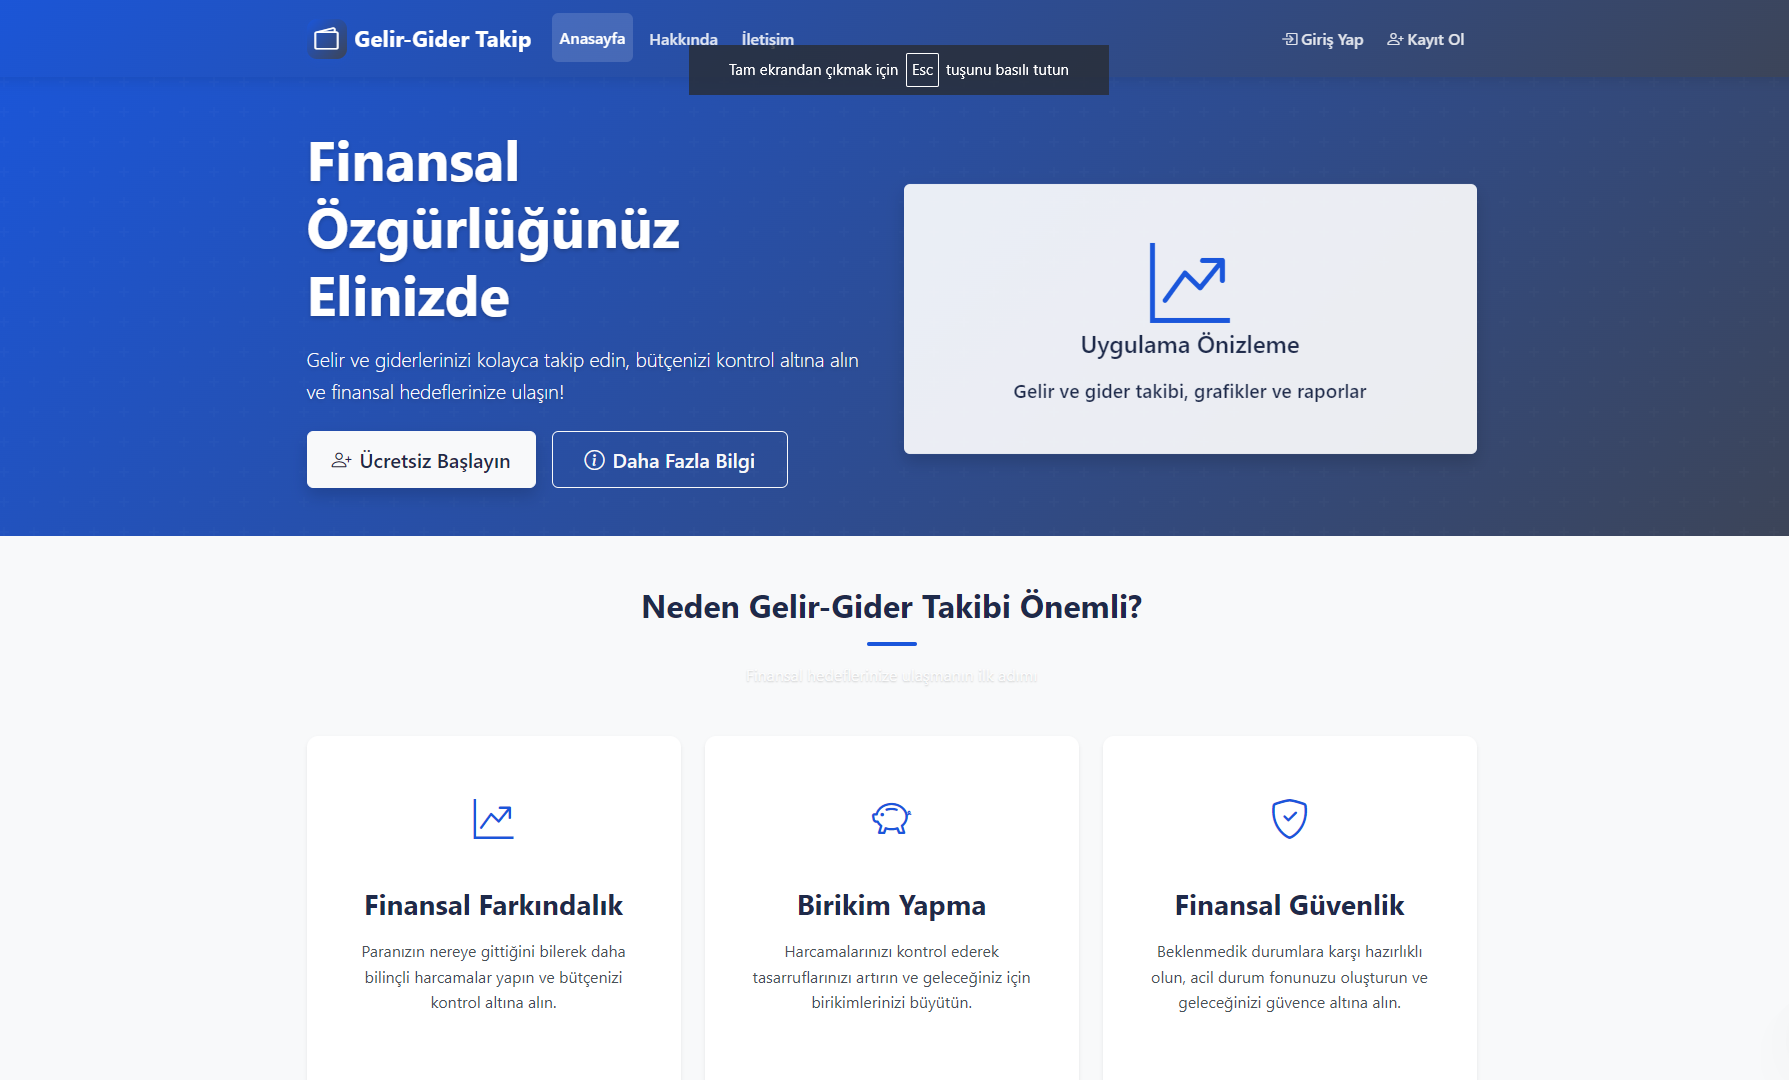
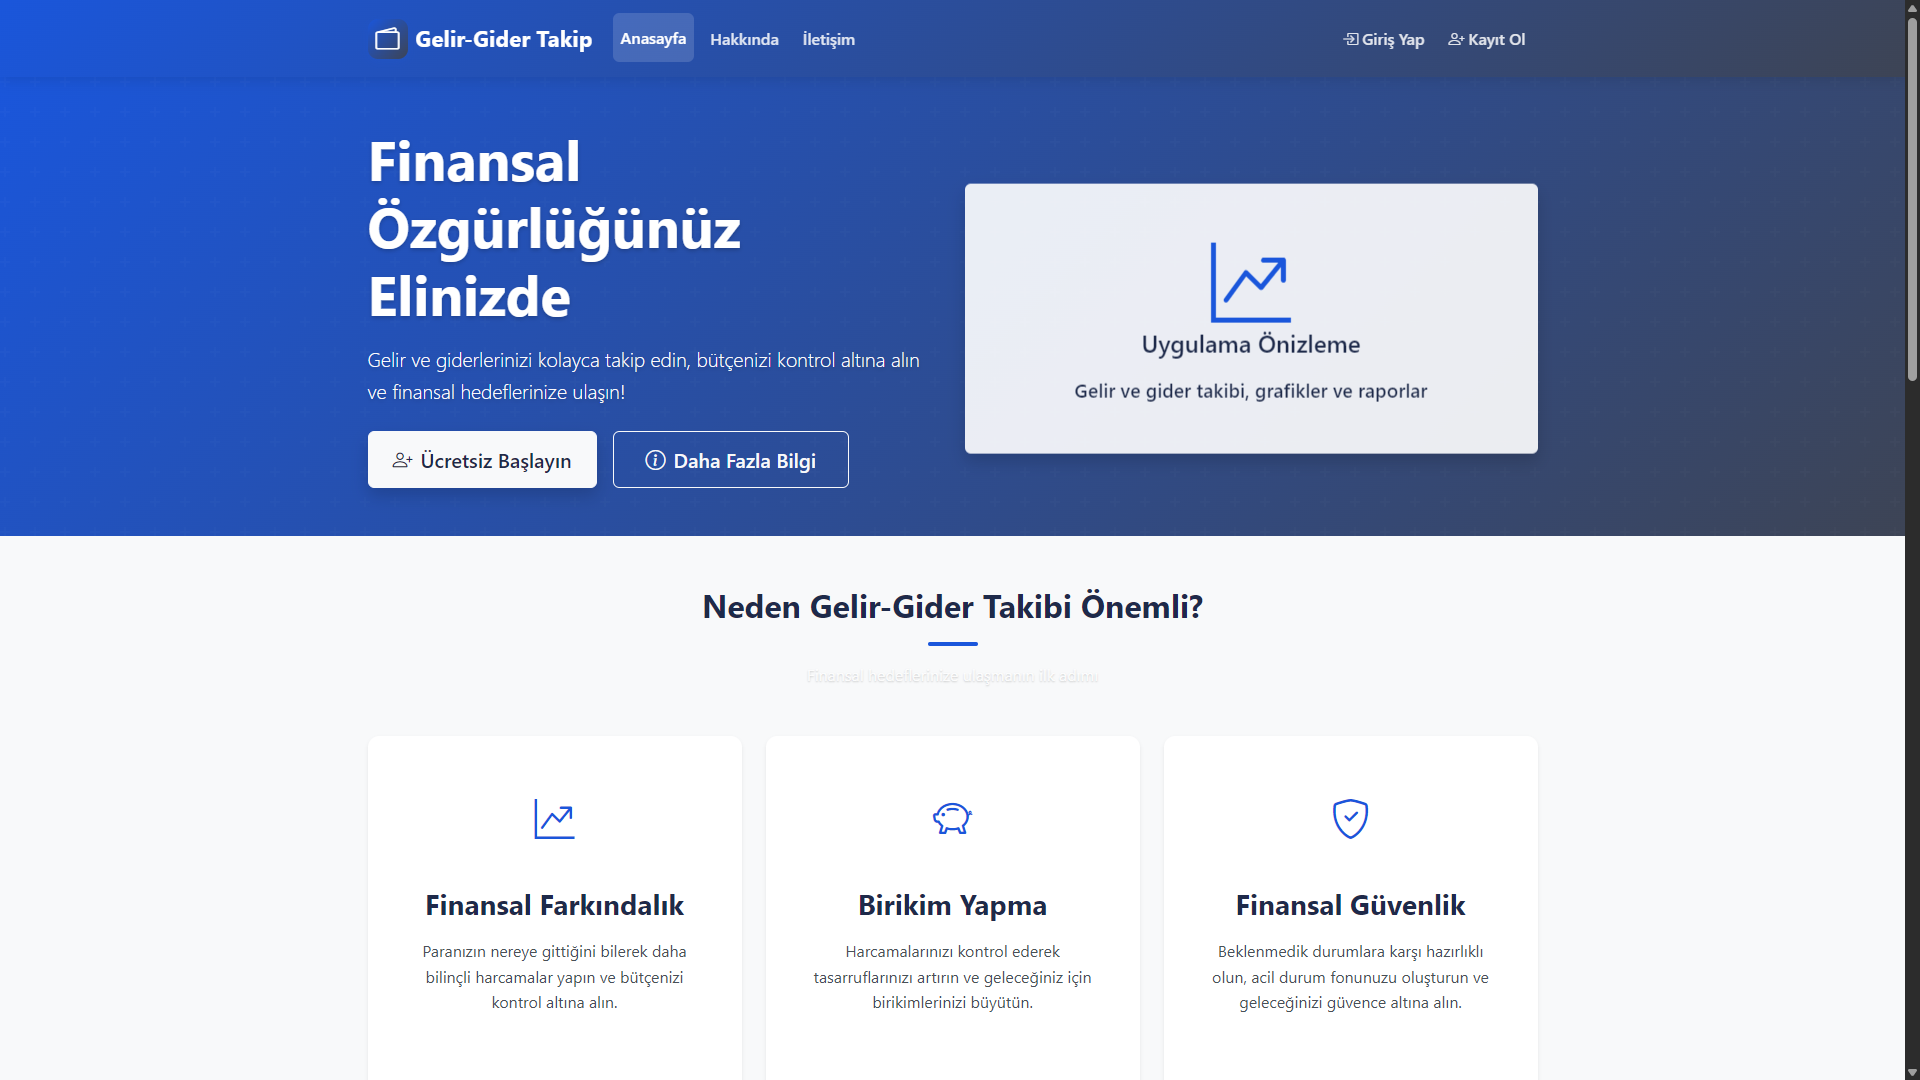
README ve ekran görüntüsü güncellendi

diff --git a/README.md b/README.md
@@ -14,34 +14,34 @@ Kişisel finansal yönetim için tasarlanmış kullanıcı dostu bir gelir-gider
 
 ## Ekran Görüntüleri
 
-![Ana Sayfa](EkranResimleri/1.png)
+![1.png](EkranResimleri/1.png)
 *Ana Sayfa*
 
-![Giriş Sayfası](EkranResimleri/2.png)
+![2.png](EkranResimleri/2.png)
 *Giriş Sayfası*
 
-![Kayıt Sayfası](EkranResimleri/3.png)
+![3.png](EkranResimleri/3.png)
 *Kayıt Sayfası*
 
-![Şifre Sıfırlama](EkranResimleri/4.png)
+![4.png](EkranResimleri/4.png)
 *Şifre Sıfırlama*
 
-![Hakkında Sayfası](EkranResimleri/5.png)
+![5.png](EkranResimleri/5.png)
 *Hakkında Sayfası*
 
-![İletişim Sayfası](EkranResimleri/6.png)
+![6.png](EkranResimleri/6.png)
 *İletişim Sayfası*
 
-![Kullanıcı Paneli](EkranResimleri/7.png)
+![7.png](EkranResimleri/7.png)
 *Kullanıcı Paneli*
 
-![Gelir-Gider Takip](EkranResimleri/8.png)
+![8.png](EkranResimleri/8.png)
 *Gelir-Gider Takip Sayfası*
 
-![Grafikler](EkranResimleri/9.png)
+![9.png](EkranResimleri/9.png)
 *Aylık Trend Grafiği*
 
-![Mobil Uyumluluk](EkranResimleri/10.png)
+![10.png](EkranResimleri/10.png)
 *Mobil Cihazlarda Görünüm*
 
 ## Teknolojiler
